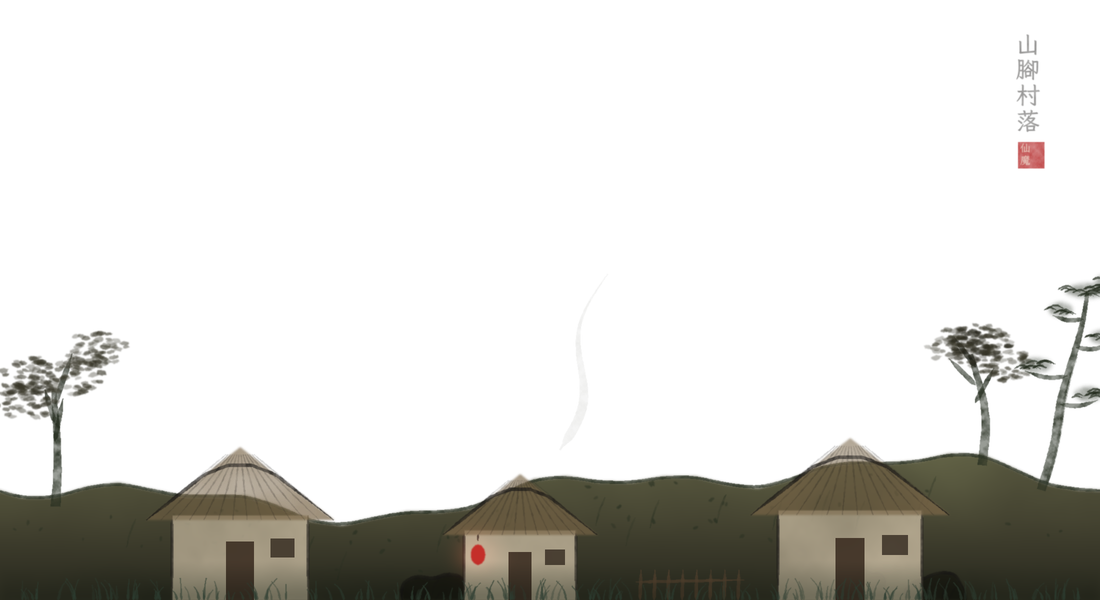
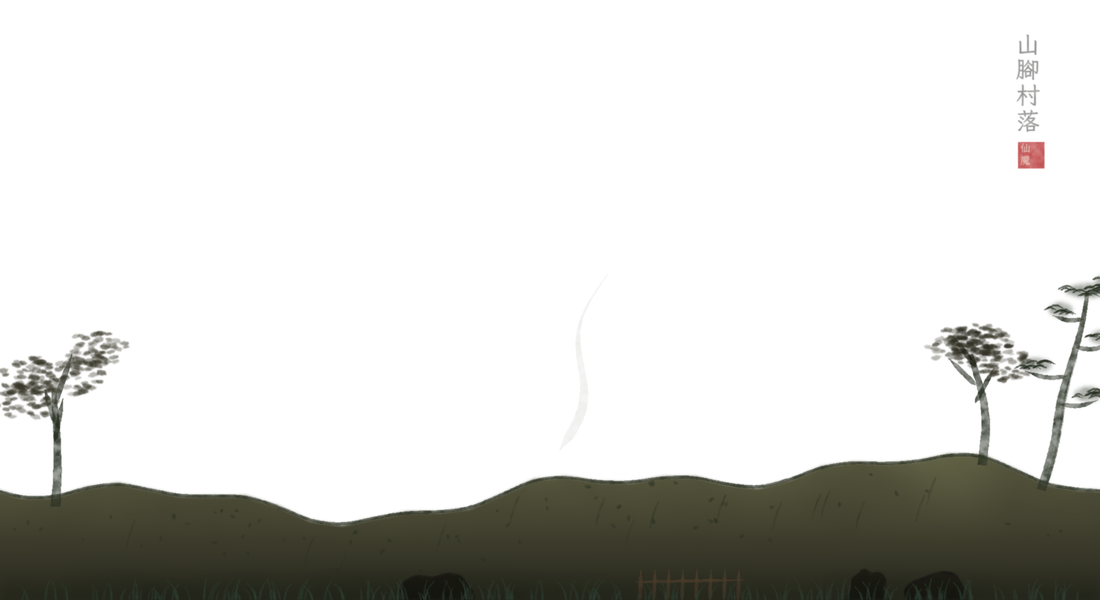
山門、殿宇、山神廟、村屋改成場景物件：柱子在角色前面，人能穿過門洞，屋簷可站 (#60)
Kc：山門可以真的是模型，人物可以穿越門間，而非底圖。tools/inkpaint/landmarks.py 把地標畫成前後兩張
（柱子下段在前、其餘在後）並寫 content/landmarks.json（位置與屋簷平台）；main.gd 依此擺進世界，跟地面一起走。
區塊底圖不再畫這些地標。

Claude-Session: https://claude.ai/code/session_01Pys4jZiBdfTibS8DynZjZp

diff --git a/tools/inkpaint/landmarks.py b/tools/inkpaint/landmarks.py
@@ -1,0 +1,119 @@
+"""地標場景物件：山門牌坊、殿宇、廟、村屋不再畫在區塊底圖上，而是獨立放進遊戲世界（跟地面一起走），
+分前後兩張圖：
+
+  <id>_back.png   角色後面（台基、牆、門窗、屋頂、石階）
+  <id>_front.png  角色前面（柱子下段）：人走過門洞時，柱子擋住人，看起來是穿過去的
+
+兩張同尺寸，地面線在圖的最底下、物件中心在圖的水平中心。遊戲照 content/landmarks.json 擺放
+（區塊內的 x、圖檔、可以站的屋簷平台）。
+
+用法：python -m tools.inkpaint.landmarks   → art/landmarks/*.png、content/landmarks.json
+"""
+import json
+import math
+from pathlib import Path
+
+import numpy as np
+
+from . import scenery as S
+from .ink import INK, Canvas, seed_of
+
+ROOT = Path(__file__).resolve().parents[2]
+PAD = 60          # 圖左右多留的寬度（飛簷翹出去）
+
+
+def _canvas(lid, w, h):
+    return Canvas(int(w + PAD * 2), int(h), seed_of("landmark." + lid))
+
+
+def _split(cv, front_rects):
+    """front_rects：[(x0, y0, x1, y1)]（畫布座標）。回傳 (back, front) 兩張圖。"""
+    img = np.asarray(cv.image()).copy()
+    mask = np.zeros(img.shape[:2], bool)
+    for x0, y0, x1, y1 in front_rects:
+        mask[max(0, int(y0)):int(math.ceil(y1)), max(0, int(x0)):int(math.ceil(x1))] = True
+    front = img.copy()
+    front[~mask, 3] = 0
+    back = img.copy()
+    back[mask, 3] = 0
+    from PIL import Image
+    return Image.fromarray(back, "RGBA"), Image.fromarray(front, "RGBA")
+
+
+def paifang(lid, text, w=300, h=340):
+    """山門牌樓（S.paifang 的同一套幾何）：四根柱子下段在角色前面；前面一道石階在後面。主簷可以站。"""
+    cv = _canvas(lid, w, h + 40)
+    gy, cx = cv.h, cv.w / 2
+    for k in range(10):
+        y = gy - k * 14
+        cv.paint(cv.rect(cx - 90 + k * 6, y - 14, cx + 90 - k * 6, y, blur=0.5), (170, 168, 160), 0.9)
+        cv.stroke([(cx - 90 + k * 6, y - 14), (cx + 90 - k * 6, y - 14)], 1.5, INK, 0.5, smooth=0)
+    S.paifang(cv, cx, gy, w, h, text)
+    cols = [cx - w * 0.5, cx - w * 0.2, cx + w * 0.2, cx + w * 0.5]
+    front = [(x - 15, gy - h * 0.45 + 8, x + 15, gy) for x in cols]
+    roof_y = h * 0.78 + 5                    # 主簷簷口上緣：從旁邊 h180 的平台跳得上去
+    platforms = [{"dx": round(-w * 0.22), "h": round(roof_y), "w": round(w * 0.44)}]
+    return cv, front, platforms
+
+
+def hall(lid, text, w=520, h=420, wall=(196, 184, 160), pillar=(120, 40, 30), roof_c=(56, 68, 80), stand=True):
+    """殿堂：一排簷柱在角色前面（走進殿裡像穿過迴廊），其餘在後面。屋頂中段可以站。"""
+    cv = _canvas(lid, w * 1.1, h + 10)
+    gy, cx = cv.h, cv.w / 2
+    S.hall(cv, cx, gy, w, h, wall=wall, pillar=pillar, roof_c=roof_c, text=text)
+    base_h, top = h * 0.1, gy - h * 0.62
+    front = []
+    pw = max(6.0, w * 0.013)               # 簷柱加粗（S.hall 的柱子只有 8px，穿過時看不出被擋）
+    for k in range(7):
+        px = cx - w * 0.4 + w * 0.8 * k / 6
+        cv.paint(cv.rect(px - pw, top + 4, px + pw, gy - base_h), pillar, 0.95)
+        cv.stroke([(px - pw, top + 4), (px - pw, gy - base_h)], 1.6, INK, 0.6, smooth=0)
+        cv.stroke([(px + pw, top + 4), (px + pw, gy - base_h)], 1.2, INK, 0.35, smooth=0)
+        cv.paint(cv.rect(px - pw - 4, gy - base_h - 10, px + pw + 4, gy - base_h), (140, 132, 120), 0.95)
+        front.append((px - pw - 5, top + h * 0.12, px + pw + 5, gy - base_h))
+    # 屋面下段（簷口上方一點）：從殿裡 h200 的平台跳得上去
+    platforms = [{"dx": round(-w * 0.26), "h": round(h * 0.62 + h * 0.32 * 0.3), "w": round(w * 0.52)}] if stand else []
+    return cv, front, platforms
+
+
+def house(lid, w, h, lantern=False):
+    """村屋：整棟在角色後面（人從門前走過）。"""
+    cv = _canvas(lid, w * 1.2, h + 10)
+    S.house(cv, cv.w / 2, cv.h, w, h, lantern=lantern)
+    return cv, [], []
+
+
+# 區塊 -> [(地標 id, 區塊內 x, 畫法)]；區塊底圖（chunks.py）不再畫這些
+LANDMARKS = {
+    "chunk.sect_gate": [("sect_gate.paifang", 560, lambda lid: paifang(lid, "青雲"))],
+    "chunk.sect_hall": [("sect_hall.hall", 450, lambda lid: hall(lid, "傳功殿"))],
+    # 山神廟正好壓在原本 h220 的平台下面：廟脊就是那塊平台，不另加
+    "chunk.ruined_shrine": [("ruined_shrine.hall", 500, lambda lid: hall(lid, "山神", 280, 240, wall=(170, 160, 140), pillar=(110, 70, 50),
+                                                                       roof_c=(60, 58, 52), stand=False))],
+    "chunk.mountain_village": [("mountain_village.house_a", 240, lambda lid: house(lid, 170, 153)),
+                               ("mountain_village.house_b", 520, lambda lid: house(lid, 140, 126, lantern=True)),
+                               ("mountain_village.house_c", 850, lambda lid: house(lid, 180, 162))],
+}
+
+
+def main():
+    out = ROOT / "art/landmarks"
+    out.mkdir(parents=True, exist_ok=True)
+    manifest = {"_comment": "地標場景物件（tools/inkpaint/landmarks.py 產生）：區塊內 x 是物件中心，platforms 的 dx 是平台左緣相對中心、h 是離地高"}
+    for cid, items in LANDMARKS.items():
+        manifest[cid] = []
+        for lid, x, fn in items:
+            cv, front, platforms = fn(lid)
+            back_img, front_img = _split(cv, front)
+            back_img.save(out / f"{lid}_back.png", optimize=True)
+            entry = {"id": lid, "x": x, "back": f"res://art/landmarks/{lid}_back.png", "platforms": platforms}
+            if front:
+                front_img.save(out / f"{lid}_front.png", optimize=True)
+                entry["front"] = f"res://art/landmarks/{lid}_front.png"
+            manifest[cid].append(entry)
+    (ROOT / "content/landmarks.json").write_text(json.dumps(manifest, ensure_ascii=False, indent=2) + "\n", encoding="utf-8")
+    print("landmarks ->", out)
+
+
+if __name__ == "__main__":
+    main()

diff --git a/tools/inkpaint/chunks.py b/tools/inkpaint/chunks.py
@@ -171,9 +171,7 @@ def ruined_shrine(cid, w, name):
     cv = base(cid, w, "forest")
     _mist(cv, 560, 50, (236, 232, 220), 0.55)
     S.dead_tree(cv, 140, 600, 260)
-    S.hall(cv, 560, 600, 280, 240, wall=(170, 160, 140), pillar=(110, 70, 50), roof_c=(60, 58, 52), text="山神")
-    cv.paint(cv.textured(cv.poly([(620, 380), (690, 362), (705, 400), (640, 414)], blur=2), 0.6), (200, 196, 180), 0.8)
-    cv.stroke([(620, 380), (660, 404), (692, 364)], 2, INK, 0.7, dry=0.6)
+    # 山神廟是場景物件（landmarks.py）
     for x in range(430, 700, 30):
         S.grass(cv, x, x + 20, 600, 0.6, INK, 0.7, 34)
     return finish(cv, name, "forest")
@@ -182,8 +180,7 @@ def ruined_shrine(cid, w, name):
 def mountain_village(cid, w, name):
     cv = base(cid, w, "forest")
     _mist(cv, 560, 50, (236, 232, 220), 0.55)
-    for cx, hw in [(240, 170), (520, 140), (850, 180)]:
-        S.house(cv, cx, 600, hw, hw * 0.9, lantern=cx == 520)
+    # 三間村屋是場景物件（landmarks.py）
     for x in range(640, 740, 14):
         cv.stroke([(x, 600), (x + 1, 570)], 3, (90, 70, 50), 0.9, smooth=0)
     cv.stroke([(636, 582), (744, 580)], 2.5, (90, 70, 50), 0.9)
@@ -193,13 +190,8 @@ def mountain_village(cid, w, name):
 
 
 def sect_gate(cid, w, name):
+    # 山門牌坊與石階是場景物件（landmarks.py），人能從柱間穿過；這裡只畫坡腳
     cv = base(cid, w, "sect")
-    _mist(cv, 580, 60, (234, 230, 214), 0.6)
-    for k in range(10):
-        y = 600 - k * 14
-        cv.paint(cv.rect(560 - 90 + k * 6, y - 14, 560 + 90 - k * 6, y, blur=0.5), (170, 168, 160), 0.9)
-        cv.stroke([(560 - 90 + k * 6, y - 14), (560 + 90 - k * 6, y - 14)], 1.5, INK, 0.5, smooth=0)
-    S.paifang(cv, 560, 600, 300, 340, "青雲")
     return finish(cv, name, "sect")
 
 
@@ -225,7 +217,7 @@ def sect_plaza(cid, w, name):
 def sect_hall(cid, w, name):
     cv = base(cid, w, "sect")
     _mist(cv, 590, 60, (234, 230, 214), 0.6)
-    S.hall(cv, w * 0.5, 600, 520, 420, roof_c=(56, 68, 80), text="傳功殿")
+    # 傳功殿是場景物件（landmarks.py）；殿前香爐留在底圖
     S.cauldron(cv, w * 0.5, 600, 28)
     return finish(cv, name, "sect")
 

diff --git a/art/STYLE.md b/art/STYLE.md
@@ -57,3 +57,4 @@
 - 缺哪些、哪些最常出場：`python tools/art_todo.py` 會產生 `art/TODO.md`。
 
 - 2026-11-01 起戶外區塊不再用古畫底圖（Kc：原底圖沒跟上設計）；古畫裁圖只剩幻境在用。
+- 地標是場景物件，不畫在底圖（2026-11-01，Kc：山門要能穿過）：`python -m tools.inkpaint.landmarks` 產生 `art/landmarks/<id>_{back,front}.png` 與 `content/landmarks.json`；back 在角色後、front（柱子下段）在角色前，屋簷平台寫在 json 的 platforms。新地標加在 `LANDMARKS`，並從 `chunks.py` 的區塊畫法拿掉。
